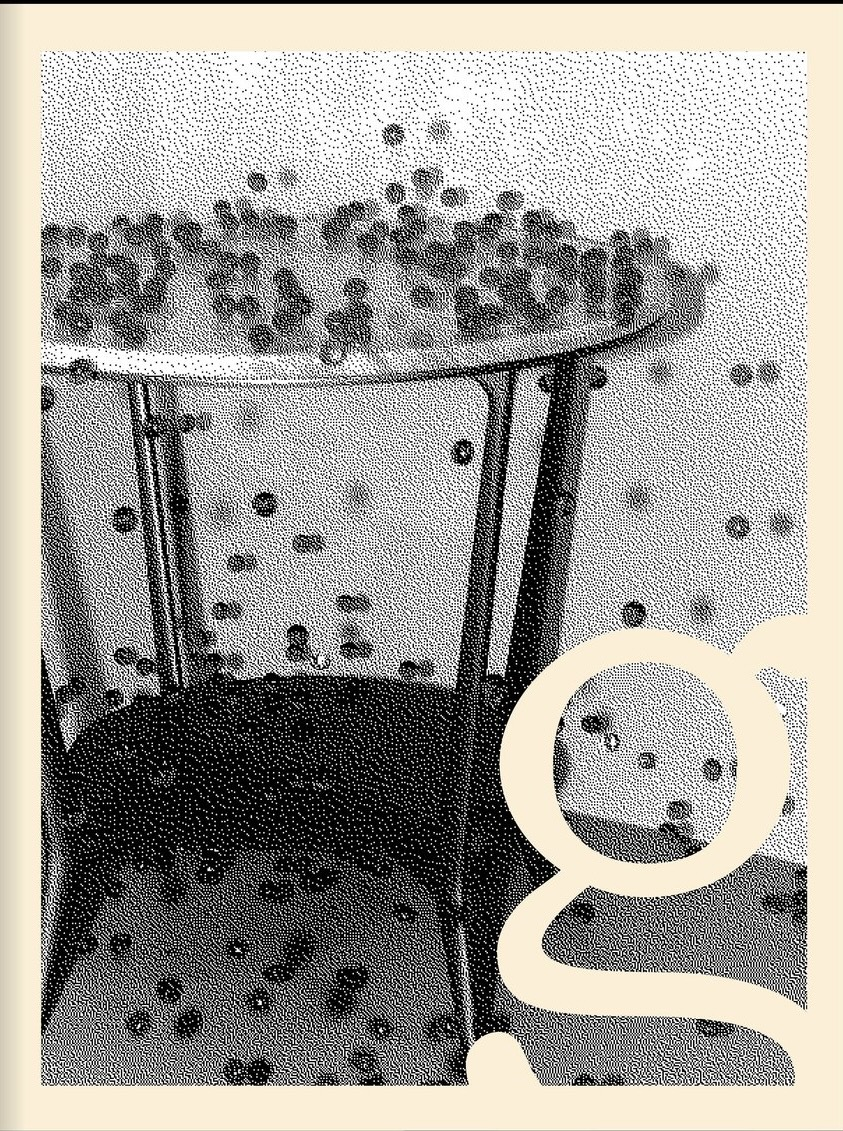
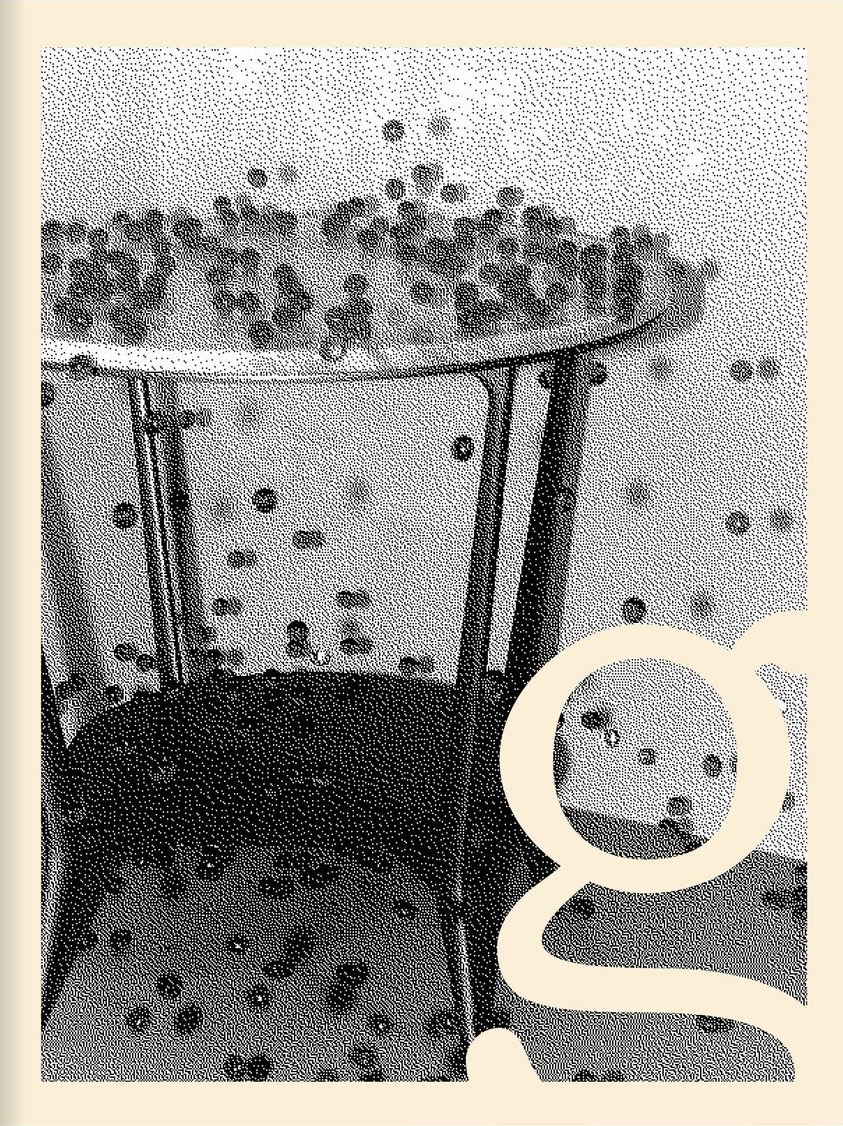
Works 8-10, Solserif edge cropped, In and Around detail page with single pages

diff --git a/index.html b/index.html
@@ -8,77 +8,7 @@
 	<link rel="preconnect" href="https://fonts.googleapis.com">
 	<link rel="preconnect" href="https://fonts.gstatic.com" crossorigin>
 	<link rel="stylesheet" href="https://fonts.googleapis.com/css2?family=Space+Grotesk:wght@400;700&display=swap">
-	<style>
-		/* 参考 sulki-min.com：灰色噪点底、小字页头、作品底边对齐按真实比例排成一排 */
-		:root {
-			--u: 0.78vw; /* 作品高度的单位，跟着窗口宽度缩放 */
-			--gap: 24px;
-			--pad: 24px;
-			--ink: #000;
-		}
-		* { box-sizing: border-box; }
-		html, body { height: 100%; }
-		body {
-			margin: 0;
-			min-height: 100vh;
-			display: flex;
-			flex-direction: column;
-			justify-content: space-between;
-			font: 400 16px/20px 'Space Grotesk', 'Helvetica Neue', Arial, sans-serif;
-			color: var(--ink);
-			background: #e0e0e0 url('images/noise.png') repeat;
-			background-size: 240px 240px;
-		}
-		a { color: inherit; text-decoration: none; }
-		h1 { font-size: 16px; line-height: 20px; font-weight: 700; margin: 0; }
-
-		header {
-			display: grid;
-			grid-template-columns: 32px 1fr auto;
-			align-items: center;
-			padding: var(--pad);
-			line-height: 16px;
-		}
-		.menu-btn { all: unset; cursor: pointer; font-size: 18px; }
-		.right { text-align: right; }
-		.heading { padding: 0 var(--pad); }
-
-		.menu {
-			display: none;
-			padding: 8px var(--pad) 24px calc(var(--pad) + 32px);
-			gap: 48px;
-			flex-wrap: wrap;
-		}
-		.menu.open { display: flex; }
-		.menu h3 { font-size: 16px; margin: 0 0 4px; }
-		.menu ul { list-style: none; margin: 0; padding: 0; }
-		.menu a:hover, .menu a:focus { background: #f0f0f0; }
-
-		.works {
-			display: flex;
-			flex-flow: row wrap;
-			align-items: flex-end;
-			gap: var(--gap);
-			padding: var(--gap);
-			margin-top: auto;
-		}
-		.works a { display: block; line-height: 0; }
-		.works img {
-			display: block;
-			height: calc(var(--h) * var(--u));
-			width: auto;
-		}
-
-		footer {
-			display: flex;
-			justify-content: space-between;
-			padding: var(--pad);
-		}
-
-		@media (max-width: 760px) {
-			:root { --u: 2.1vw; --gap: 16px; --pad: 16px; }
-		}
-	</style>
+	<link rel="stylesheet" href="style.css?v=2">
 </head>
 <body>
 	<div>
@@ -94,9 +24,11 @@
 				<li>Wuzhen Theater Festival, brochure</li>
 				<li>Pied Piper, lyric booklet</li>
 				<li>此岸, book</li>
-				<li>In and Around, brochure</li>
+				<li><a href="project.html?p=in-and-around">In and Around, brochure</a></li>
 				<li>Solserif, type specimen</li>
 				<li>Find Your Voice, editorial</li>
+				<li>Font design, covers</li>
+				<li>Arboretum, brand bible</li>
 			</ul>
 			<ul>
 				<h3>Contact</h3>
@@ -107,15 +39,18 @@
 		<div class="heading"><h1>Editorial works</h1></div>
 	</div>
 
-	<!-- 从左到右 1–7；--h 是每件作品的显示高度，按参考网站对应位置的大小设定 -->
+	<!-- 从左到右 1–10；--h 是每件作品的显示高度（1–7 按参考网站对应位置的大小设定） -->
 	<main class="works">
 		<a title="Held Still, exhibition catalogue cover"><img style="--h: 9.7" src="images/01-held-still-cover.png" width="1488" height="3200" alt="Held Still, catalogue cover"></a>
 		<a title="Wuzhen Theater Festival, brochure"><img style="--h: 11.1" src="images/02-wuzhen-brochure.png" width="762" height="838" alt="Wuzhen Theater Festival, brochure spread"></a>
 		<a title="Pied Piper, lyric booklet p. 5"><img style="--h: 10.5" src="images/03-pied-piper-lyrics-p5.png" width="5929" height="5347" alt="Pied Piper, lyric booklet page"></a>
 		<a title="此岸, spread"><img style="--h: 14.5" src="images/04-ci-an-spread.jpg" width="2669" height="1902" alt="此岸, book spread"></a>
-		<a title="In and Around, brochure cover"><img style="--h: 10.5" src="images/05-ats-brochure-cover.jpg" width="2475" height="3200" alt="In and Around, brochure cover"></a>
-		<a title="Solserif, type specimen"><img style="--h: 35.6" src="images/06-solserif.jpg" width="843" height="1131" alt="Solserif, type specimen"></a>
+		<a href="project.html?p=in-and-around" title="In and Around, brochure"><img style="--h: 10.5" src="images/05-ats-brochure-cover.jpg" width="2475" height="3200" alt="In and Around, brochure cover"></a>
+		<a title="Solserif, type specimen"><img style="--h: 35.6" src="images/06-solserif.jpg" width="843" height="1126" alt="Solserif, type specimen"></a>
 		<a title="Find Your Voice, spread"><img style="--h: 11.7" src="images/07-find-your-voice-spread.jpg" width="1024" height="512" alt="Find Your Voice, editorial spread"></a>
+		<a title="Font design, covers"><img style="--h: 10.5" src="images/08-font-design-covers.jpg" width="2448" height="3168" alt="Font design, cover"></a>
+		<a title="Arboretum, brand bible"><img style="--h: 9.9" src="images/09-arboretum-brand-bible.jpg" width="2304" height="2880" alt="Arboretum brand bible, page"></a>
+		<a href="project.html?p=in-and-around" title="In and Around, brochure spread"><img style="--h: 10.5" src="images/10-in-and-around-spread.jpg" width="4896" height="3168" alt="In and Around, brochure spread"></a>
 	</main>
 
 	<footer>
@@ -123,13 +58,6 @@
 		<div>●</div>
 	</footer>
 
-	<script>
-		const btn = document.querySelector('.menu-btn');
-		const menu = document.getElementById('menu');
-		btn.addEventListener('click', () => {
-			const open = menu.classList.toggle('open');
-			btn.setAttribute('aria-expanded', open);
-		});
-	</script>
+	<script src="site.js?v=2"></script>
 </body>
 </html>

diff --git a/style.css b/style.css
@@ -1,0 +1,110 @@
+/* 参考 sulki-min.com：灰色噪点底、小字页头、作品底边对齐按真实比例排列 */
+:root {
+	--u: 0.78vw; /* 首页作品高度的单位，跟着窗口宽度缩放 */
+	--gap: 24px;
+	--pad: 24px;
+	--ink: #000;
+}
+* { box-sizing: border-box; }
+html, body { height: 100%; }
+body {
+	margin: 0;
+	min-height: 100vh;
+	display: flex;
+	flex-direction: column;
+	justify-content: space-between;
+	font: 400 16px/20px 'Space Grotesk', 'Helvetica Neue', Arial, sans-serif;
+	color: var(--ink);
+	background: #e0e0e0 url('images/noise.png') repeat;
+	background-size: 240px 240px;
+}
+a { color: inherit; text-decoration: none; }
+h1, h3 { font-size: 16px; line-height: 20px; font-weight: 700; margin: 0; }
+p, ul { margin: 0; padding: 10px 0; }
+ul { list-style: none; }
+
+/* ---------- 页头 / 菜单 / 页脚 ---------- */
+header {
+	display: grid;
+	grid-template-columns: 32px 1fr auto;
+	align-items: center;
+	padding: var(--pad);
+	line-height: 16px;
+}
+.menu-btn { all: unset; cursor: pointer; font-size: 18px; }
+.right { text-align: right; }
+.heading { padding: 0 var(--pad); }
+
+.menu {
+	display: none;
+	padding: 8px var(--pad) 24px calc(var(--pad) + 32px);
+	gap: 48px;
+	flex-wrap: wrap;
+}
+.menu.open { display: flex; }
+.menu h3 { margin: 0 0 4px; }
+.menu ul { padding: 0; }
+.menu a:hover, .menu a:focus { background: #f0f0f0; }
+
+footer {
+	display: flex;
+	justify-content: space-between;
+	padding: var(--pad);
+}
+
+/* ---------- 首页 ---------- */
+.works {
+	display: flex;
+	flex-flow: row wrap;
+	align-items: flex-end;
+	gap: var(--gap);
+	padding: var(--gap);
+	margin-top: auto;
+}
+.works a { display: block; line-height: 0; }
+.works img {
+	display: block;
+	height: calc(var(--h) * var(--u));
+	width: auto;
+}
+
+/* ---------- 详情页：左边封面、右边文字，下面是所有单页 ---------- */
+.entry {
+	display: grid;
+	grid-template-columns: 1fr 1fr;
+	align-items: end;
+	gap: var(--gap);
+	padding: 12px var(--pad) 0;
+}
+.entry-cover img { display: block; height: 520px; max-width: 100%; width: auto; object-fit: contain; object-position: left bottom; }
+.entry-text { max-width: 640px; align-self: start; }
+.entry-text .specs li { padding: 0; }
+.entry-text .meta { padding-top: 10px; }
+.entry-text .meta li { padding: 0; }
+
+.pages {
+	display: flex;
+	flex-flow: row wrap;
+	align-items: flex-end;
+	gap: var(--gap);
+	padding: calc(var(--gap) * 2) var(--pad) var(--gap);
+}
+.pages figure { margin: 0; line-height: 0; }
+.pages img { display: block; height: 420px; width: auto; }
+
+.turn {
+	display: grid;
+	grid-template-columns: 24px 24px auto;
+	padding: 0 var(--pad) 12px;
+}
+
+@media (max-width: 1079px) {
+	.entry { grid-template-columns: 1fr; }
+	.entry-cover img { height: auto; width: min(100%, 420px); }
+}
+
+@media (max-width: 760px) {
+	:root { --u: 2.1vw; --gap: 16px; --pad: 16px; }
+	.pages figure { width: calc(50% - var(--gap) / 2); }
+	.pages img { height: auto; width: 100%; }
+}

diff --git a/site.js b/site.js
@@ -1,0 +1,61 @@
+// 菜单开关
+const menuBtn = document.querySelector('.menu-btn');
+const menu = document.getElementById('menu');
+if (menuBtn && menu) {
+	menuBtn.addEventListener('click', () => {
+		const open = menu.classList.toggle('open');
+		menuBtn.setAttribute('aria-expanded', open);
+	});
+}
+
+// ---------- 详情页 ----------
+// 每个项目：封面、文字、所有单页（spread 已拆成单页）
+const PROJECTS = {
+	'in-and-around': {
+		title: 'In and Around',
+		subtitle: 'Cultures of Design and the Design of Cultures, Part 2',
+		year: 2026,
+		medium: 'Brochure',
+		size: '6.8 × 4.5 in',
+		pages: 16,
+		text: 'A brochure built around Andrew Blauvelt’s essay <em>In and Around: Cultures of Design and the Design of Cultures, Part 2</em>, first published in 1995 in <em>Emigre</em> 33.',
+		meta: [
+			['Project type', 'publication'],
+			['Course', 'Advanced Transmedia Studio, ArtCenter College of Design'],
+		],
+		dir: 'images/in-and-around/',
+		count: 16,
+		w: 2448,
+		h: 3168,
+	},
+};
+
+const entry = document.getElementById('entry');
+if (entry) {
+	const slug = new URLSearchParams(location.search).get('p');
+	const p = PROJECTS[slug];
+	if (!p) {
+		location.replace('./');
+	} else {
+		document.title = p.title + ' — Hazel Tao';
+		const page = (n) => p.dir + 'page-' + String(n).padStart(2, '0') + '.jpg';
+		const img = (n, eager) => `<img src="${page(n)}" width="${p.w}" height="${p.h}" alt="${p.title}, page ${n}"${eager ? '' : ' loading="lazy"'}>`;
+		entry.innerHTML = `
+			<div class="entry-cover">${img(1, true)}</div>
+			<div class="entry-text">
+				<ul class="specs">
+					<h3>${p.title}</h3>
+					${p.subtitle ? `<li>${p.subtitle}</li>` : ''}
+					<li>${p.year}</li>
+					<li>${p.medium}</li>
+					<li>${p.size}</li>
+					<li>${p.pages} pages</li>
+				</ul>
+				<p>${p.text}</p>
+				<ul class="meta">${p.meta.map(([k, v]) => `<li>${k}: ${v}</li>`).join('')}</ul>
+			</div>`;
+		const rest = [];
+		for (let n = 2; n <= p.count; n++) rest.push(`<figure>${img(n)}</figure>`);
+		document.getElementById('pages').innerHTML = rest.join('');
+	}
+}

diff --git a/project.html b/project.html
@@ -1,0 +1,48 @@
+<!DOCTYPE html>
+<html lang="en">
+<head>
+	<meta charset="utf-8">
+	<meta name="viewport" content="width=device-width, initial-scale=1">
+	<title>Hazel Tao — Editorial</title>
+	<link rel="preconnect" href="https://fonts.googleapis.com">
+	<link rel="preconnect" href="https://fonts.gstatic.com" crossorigin>
+	<link rel="stylesheet" href="https://fonts.googleapis.com/css2?family=Space+Grotesk:wght@400;700&display=swap">
+	<link rel="stylesheet" href="style.css?v=2">
+</head>
+<body>
+	<div>
+		<header>
+			<button class="menu-btn" aria-label="Menu" aria-expanded="false">&#9776;</button>
+			<a href="./">Hazel Tao</a>
+			<a class="right" href="mailto:heizedesign@gmail.com">Contact</a>
+		</header>
+		<nav class="menu" id="menu">
+			<ul>
+				<h3>Editorial works</h3>
+				<li><a href="./">All works</a></li>
+				<li><a href="project.html?p=in-and-around">In and Around, brochure</a></li>
+			</ul>
+			<ul>
+				<h3>Contact</h3>
+				<li><a href="mailto:heizedesign@gmail.com">heizedesign@gmail.com</a></li>
+				<li><a href="https://www.instagram.com/sol.studioooo/">Instagram</a></li>
+			</ul>
+		</nav>
+
+		<!-- 左边封面、右边文字（参考 sulki-min 详情页，不要 Related to） -->
+		<section class="entry" id="entry"></section>
+		<!-- 其余单页 -->
+		<section class="pages" id="pages"></section>
+	</div>
+
+	<div>
+		<nav class="turn"><a href="./" aria-label="Back to all works">←</a></nav>
+		<footer>
+			<div>© 2026 Hazel Tao</div>
+			<div>●</div>
+		</footer>
+	</div>
+
+	<script src="site.js?v=2"></script>
+</body>
+</html>
